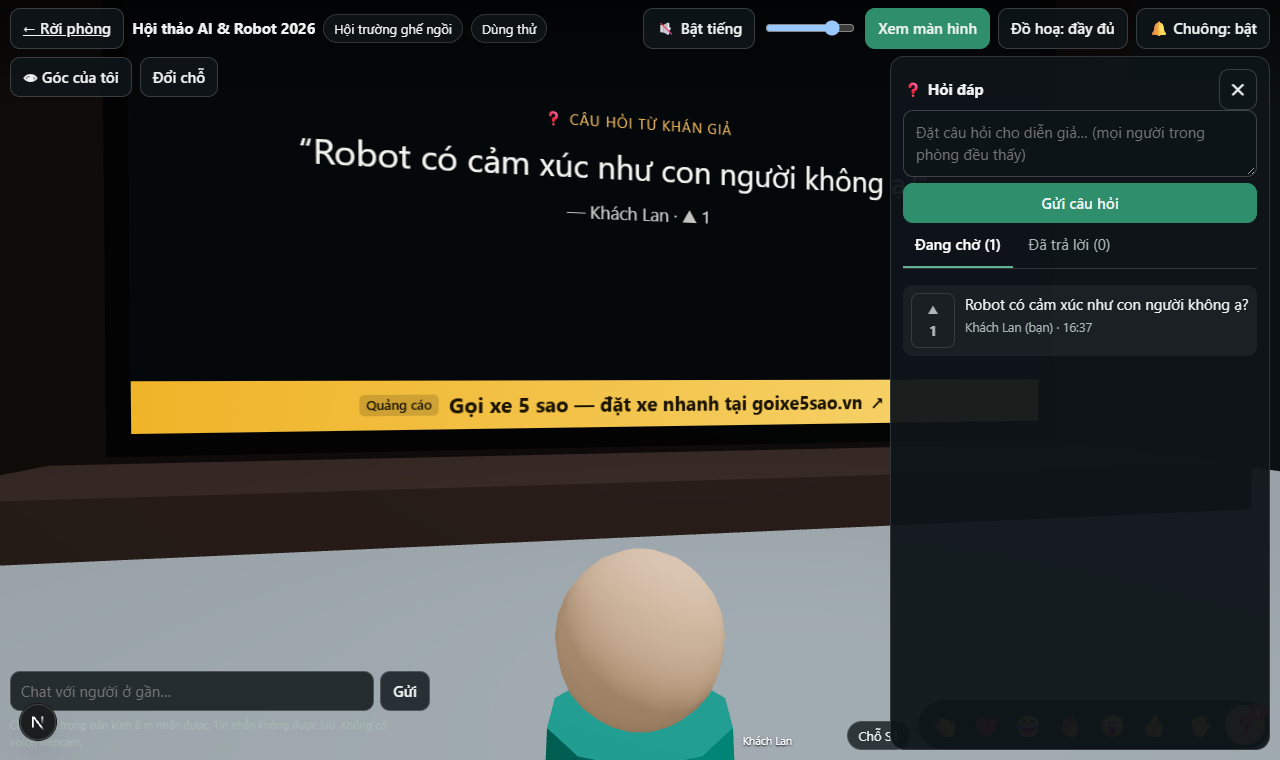
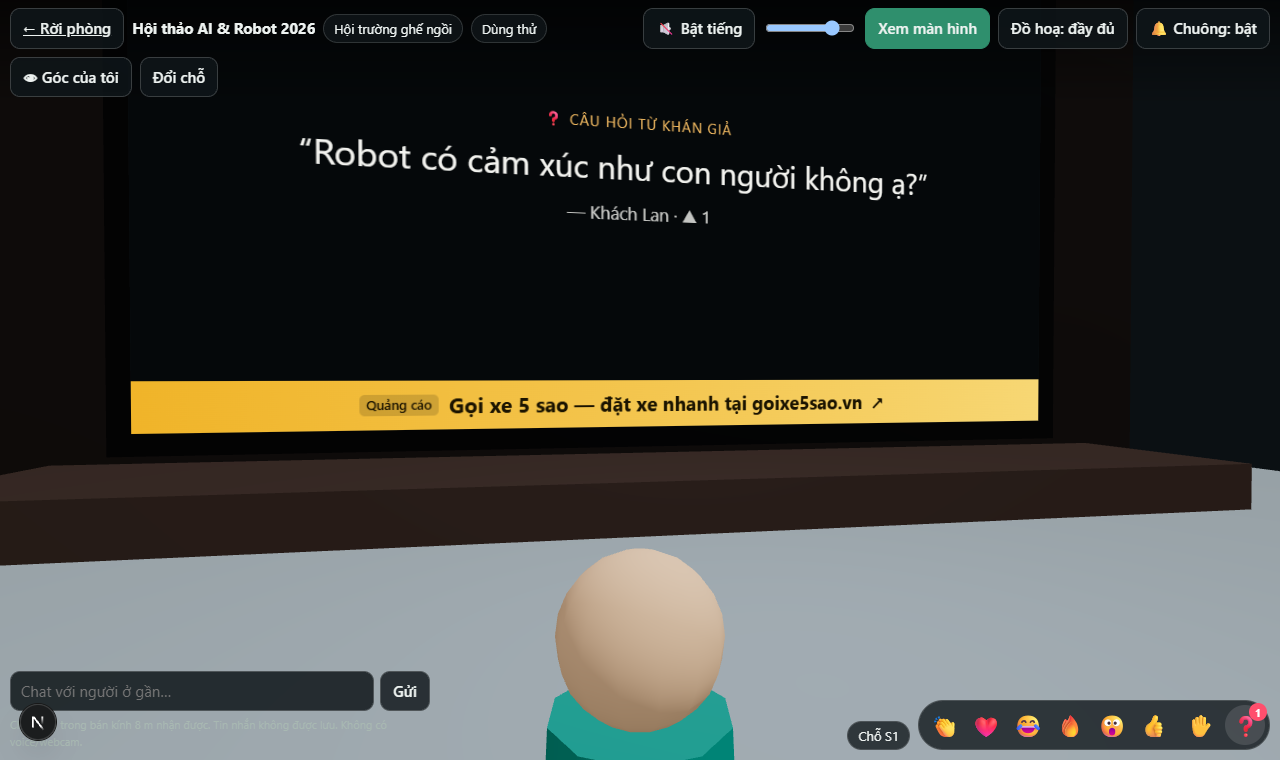
fix(room): name tag at the centre of the body; chat bubble and reactions just above the head

Changed region(s): [[0.6875, 0.0908, 1.0, 0.9987], [0.5625, 0.9684, 0.625, 0.9987], [0.9375, 0.1211, 0.9688, 0.1513]]

diff --git a/src/components/room/scene.tsx b/src/components/room/scene.tsx
@@ -141,7 +141,10 @@ function SimpleModel({ group, color }: { group: string; color: string }) {
 
 const tmpV = new THREE.Vector3();
 /** Where the name tag sits on each kind of avatar (local coords; +x = the avatar's right side). */
-const SHOULDER: Record<string, [number, number, number]> = { people: [0.3, 0.95, 0], animals: [0.2, 0.75, 0], vehicles: [0, 1.5, 0] };
+/** Name tag at the centre of the body, on the vertical axis (stays centred whichever way the avatar turns). */
+const SHOULDER: Record<string, [number, number, number]> = { people: [0, 0.75, 0], animals: [0, 0.55, 0], vehicles: [0, 1.0, 0] };
+/** Just above the head: chat bubble and reaction pop. */
+const HEAD_TOP: Record<string, number> = { people: 1.5, animals: 1.4, vehicles: 1.9 };
 const tmpA = new THREE.Vector3();
 
 const Avatar = memo(function Avatar({ id, store, layout, lite, bubbleTick, portal, hand }: { id: string; store: MemberStore; layout: Layout; lite: boolean; bubbleTick: number; portal: React.RefObject<HTMLElement | null>; hand: boolean }) {
@@ -206,7 +209,6 @@ const Avatar = memo(function Avatar({ id, store, layout, lite, bubbleTick, porta
 
   if (!m) return null;
   const color = AVATARS[m.avatar.group].models.find((x) => x.id === m.avatar.model)?.color ?? "#888";
-  const height = m.avatar.group === "vehicles" ? 2.2 : 1.6;
   const shoulder = SHOULDER[m.avatar.group];
   const bubble = store.bubbles.get(id);
   const showBubble = bubble && Date.now() - bubble.at < 8000;
@@ -221,11 +223,11 @@ const Avatar = memo(function Avatar({ id, store, layout, lite, bubbleTick, porta
         <SimpleModel group={m.avatar.group} color={color} />
       </group>
       {showBubble && (
-        <Html position={[0, height + 0.15, 0]} portal={portal as React.RefObject<HTMLElement>} style={{ pointerEvents: "none" }} zIndexRange={[16777000, 16776000]}>
+        <Html position={[0, HEAD_TOP[m.avatar.group], 0]} portal={portal as React.RefObject<HTMLElement>} style={{ pointerEvents: "none" }} zIndexRange={[16777000, 16776000]}>
           <div className="bubble">{bubble!.text}</div>
         </Html>
       )}
-      <Html position={[0, height + 0.35, 0]} portal={portal as React.RefObject<HTMLElement>} style={{ pointerEvents: "none" }} zIndexRange={[16777000, 16776000]}>
+      <Html position={[0, HEAD_TOP[m.avatar.group], 0]} portal={portal as React.RefObject<HTMLElement>} style={{ pointerEvents: "none" }} zIndexRange={[16777000, 16776000]}>
         <div ref={pop} className="react-pop" style={{ display: "none" }} />
         {hand && (
           <div className="hand-pop" title="Đang giơ tay">

diff --git a/src/app/globals.css b/src/app/globals.css
@@ -178,7 +178,7 @@ table.data th { color: var(--muted); font-weight: 600; font-size: 13px; }
 .minimap { width: 100%; max-height: 50vh; background: #0d1417; border-radius: 10px; }
 .minimap .seat { cursor: pointer; }
 .bubble { background: #fff; color: #111; padding: 4px 8px; border-radius: 10px; font-size: 13px; width: max-content; max-width: 220px; white-space: normal; text-align: center; box-shadow: 0 2px 6px rgb(0 0 0 / 0.3); pointer-events: none; transform: translate(-50%, -100%); }
-.nametag { color: #fff; font-size: 11px; text-shadow: 0 1px 2px #000; white-space: nowrap; transform: translate(-50%, 0); pointer-events: none; }
+.nametag { color: #fff; font-size: 11px; text-shadow: 0 1px 2px #000, 0 0 3px #000; white-space: nowrap; transform: translate(-50%, -50%); pointer-events: none; }
 
 /* ---------- stage screen DOM ---------- */
 .screen-surface { width: 960px; height: 540px; background: #05080a; color: #f4f4f0; position: relative; overflow: hidden; font-size: 34px; display: grid; place-items: center; }
